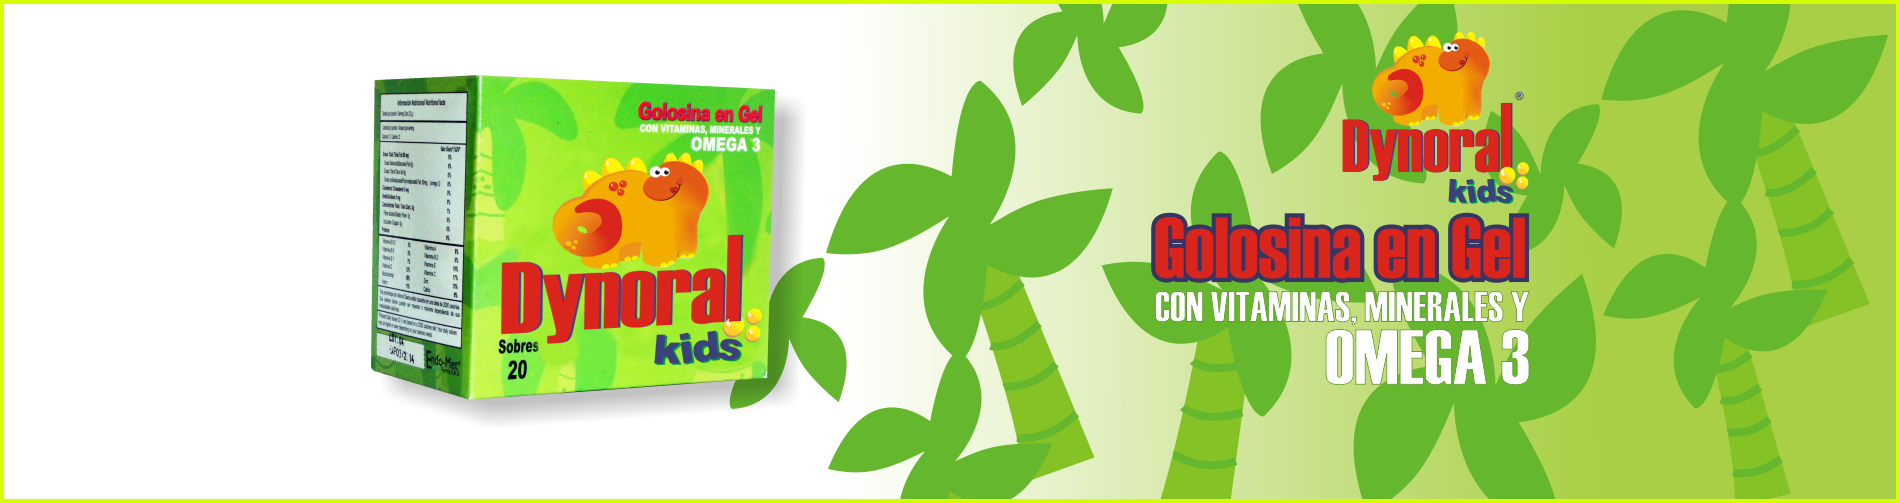
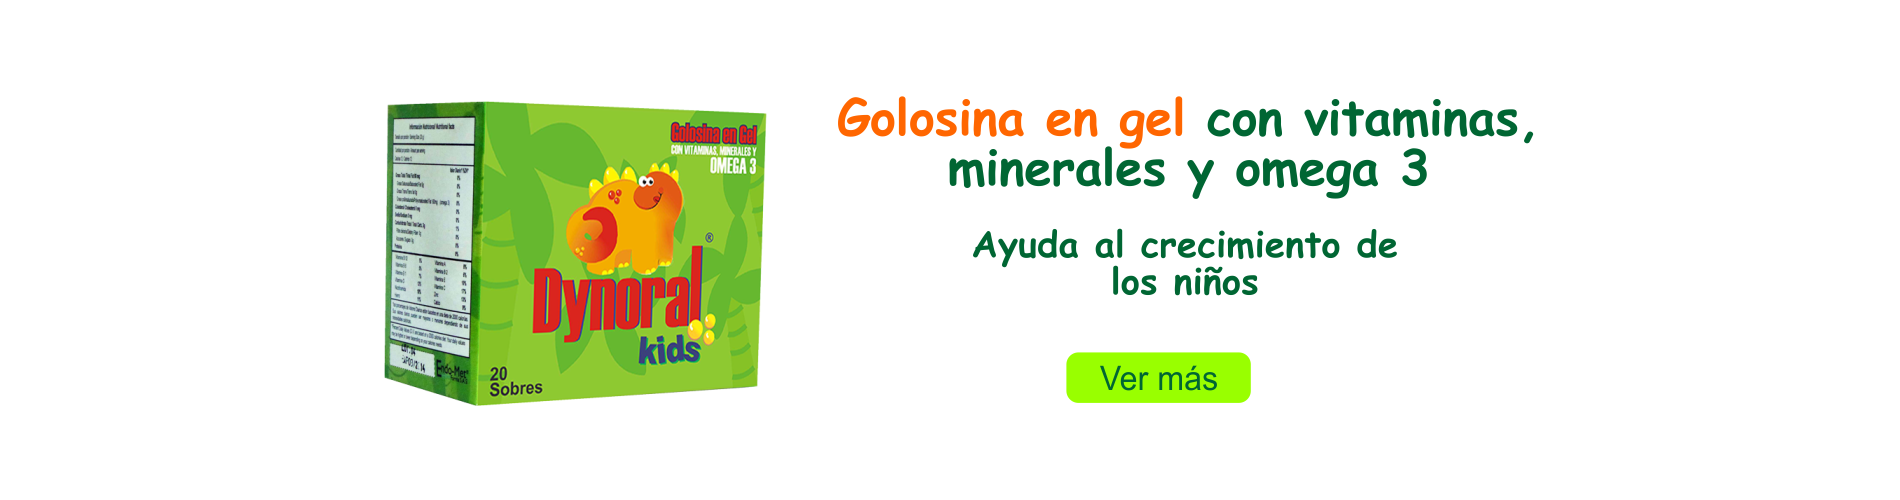
add nes slides

diff --git a/public/custom/css/extra.css b/public/custom/css/extra.css
@@ -1636,15 +1636,15 @@ ICONS START
 }
 
 .bioplus-button {
-	background-color: #00A9D2;
-    padding: 3px 54px;
+    background-color: #00A9D2;
+    padding: 6px 54px;
     text-decoration: none;
     color: #FFF;
     font-weight: bold;
     font-size: 1.4em;
     position: absolute;
-    top: 80%;
-    left: 28%;
+    top: 75%;
+    left: 34%;
     border-radius: 13px;
     border: 2px solid #00A9D2;
 }
@@ -1656,15 +1656,15 @@ a:hover.bioplus-button {
 }
 
 .dynoral-button {
-    background-color: #FFF;
-    padding: 2px 53px;
+    background-color: #9F0;
+    padding: 11px 55px;
     text-decoration: none;
-    color: #484848;
+    color: #006633;
     font-weight: bold;
     font-size: 1.4em;
     position: absolute;
-    top: 79%;
-    right: 19.6%;
+    top: 70%;
+    right: 34%;
     border-radius: 13px;
     border: 2px solid #FFF;
 }
@@ -1698,14 +1698,14 @@ a:hover.dynoral-button {
 
 .promelite-button {
     background-color: #3E4095;
-    padding: 3px 54px;
+    padding: 11px 54px;
     text-decoration: none;
     color: #FFF;
     font-weight: bold;
     font-size: 1.4em;
     position: absolute;
-    top: 78%;
-    right: 33%;
+    top: 74%;
+    right: 34.2%;
     border-radius: 13px;
     border: 2px solid #3E4095;
 }

diff --git a/public/app/controllers/CarouselCtrl.js b/public/app/controllers/CarouselCtrl.js
@@ -15,9 +15,9 @@ farmapp.controller('CarouselCtrl', ['$scope', function($scope) {
                 format = '.png';*/
         slides.push({
             image: 'http://sanaquefarma.com/assets/images/slides/' + i + format,
-            button: ['http://sanaquefarma.com/product/show_product_by_id/2','http://sanaquefarma.com/product/show_product_by_id/56345','http://sanaquefarma.com/product/show_product_by_id/56346'][slides.length % 3],
+            button: ['http://sanaquefarma.com/l/dynoral','http://sanaquefarma.com/l/bioplus','http://sanaquefarma.com/l/promelite'][slides.length % 3],
             class : ['dynoral-button', 'bioplus-button', 'promelite-button'][slides.length % 3],
-            text : ['Comprar', 'Comprar', 'Comprar'][slides.length % 3]
+            text : ['Ver más', 'Ver más', 'Ver más'][slides.length % 3]
         });
     };
     for (var i=0; i<=2; i++) {

diff --git a/application/libraries/Mandrill_lib.php b/application/libraries/Mandrill_lib.php
@@ -64,7 +64,7 @@ class Mandrill_lib {
                 //'url_strip_qs' => null,
                 //'preserve_recipients' => null,
                 'view_content_link' => null,
-                'bcc_address' => 'adrian.romero9224@gmail.com',
+                'bcc_address' => 'diandralarro@gmail.com',
                 //'tracking_domain' => null,
                 //'signing_domain' => null,
                // 'return_path_domain' => null,
